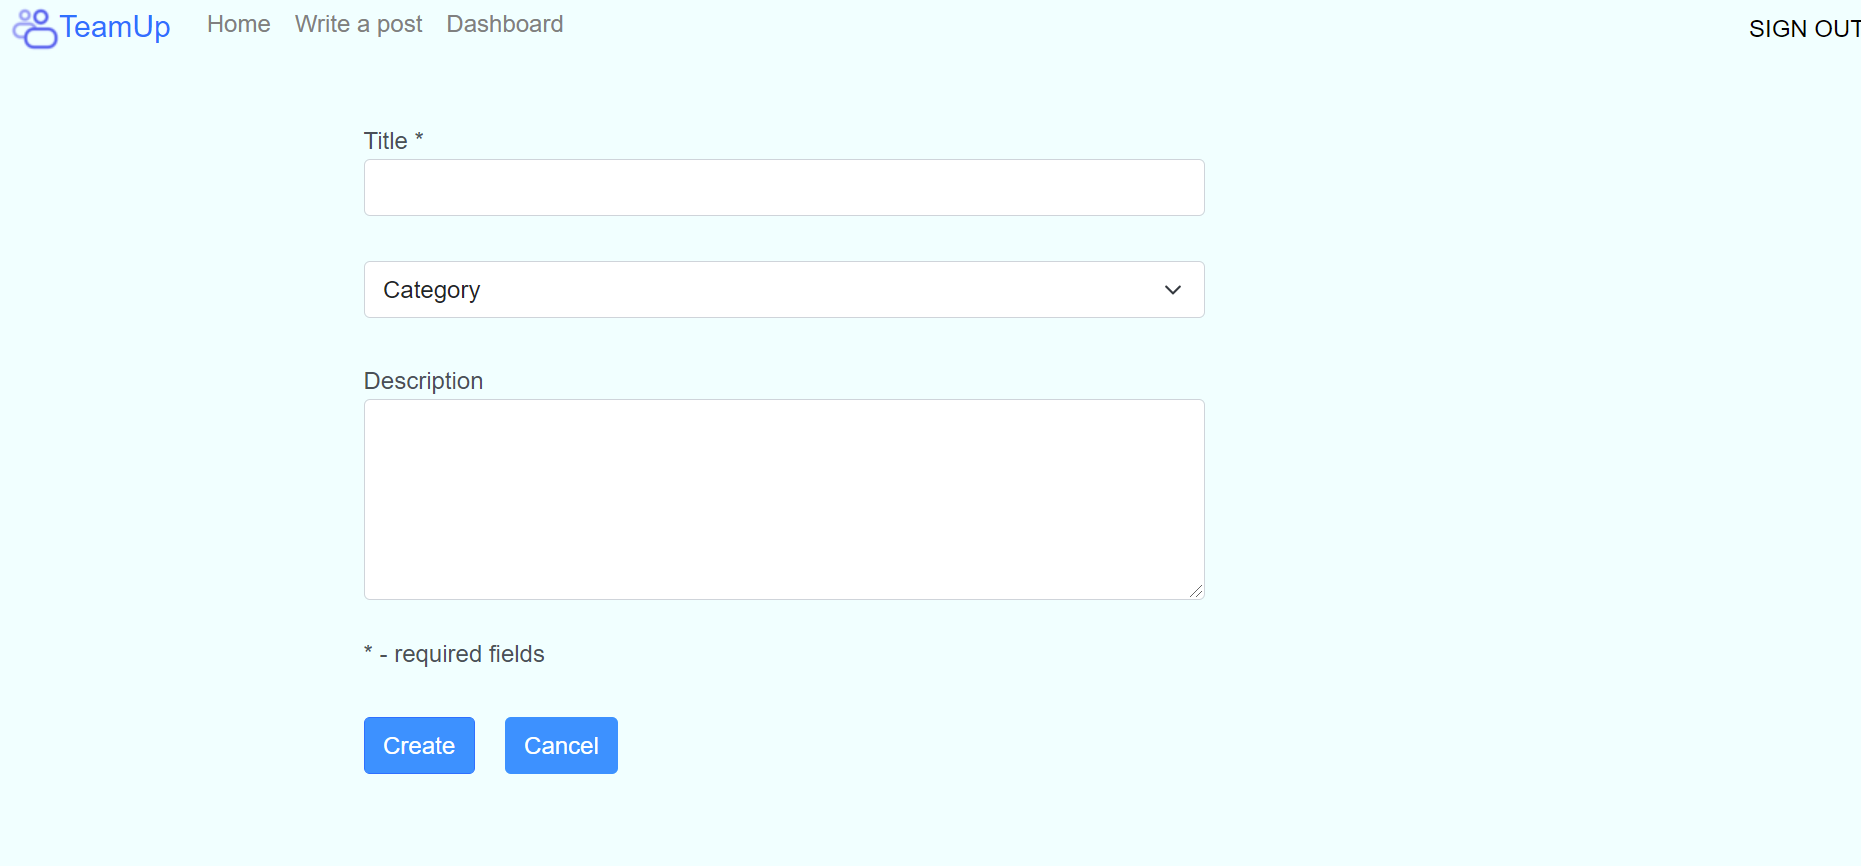
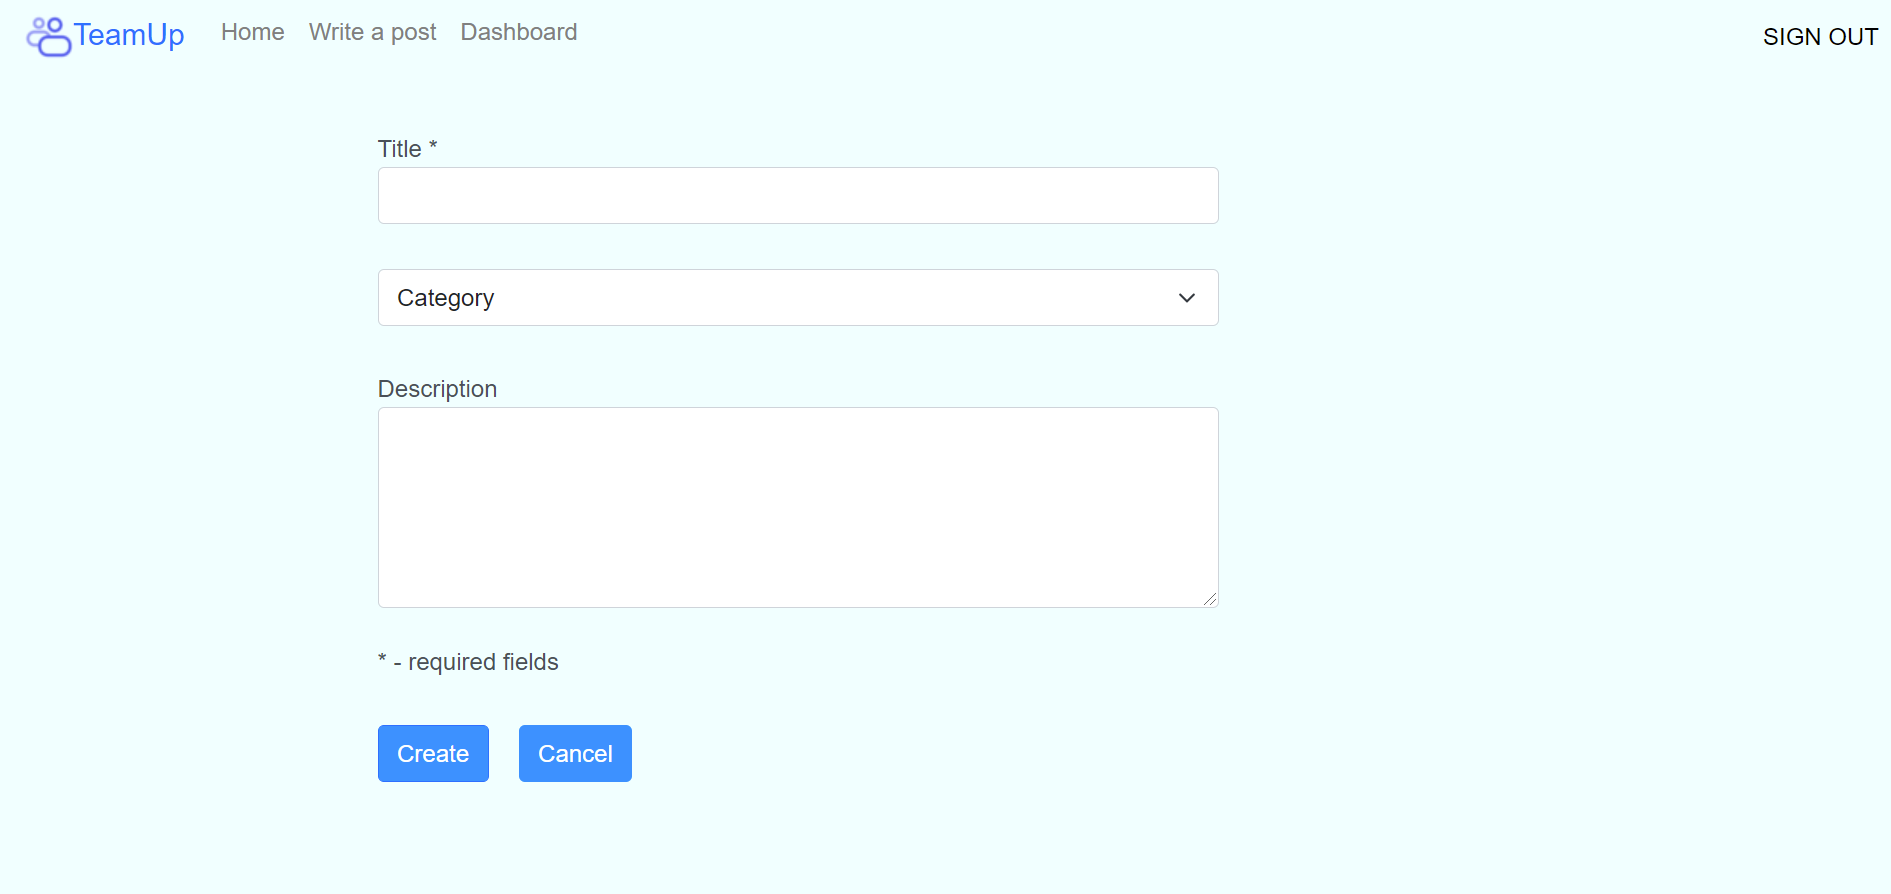
register auto login

diff --git a/front/src/Pages/RegisterPage.js b/front/src/Pages/RegisterPage.js
@@ -1,5 +1,6 @@
 import React, { useState } from "react";
 import { Link } from "react-router-dom";
+import "../styles/auth.css";
 
 let regExp = /^[a-zA-Z0-9.!#$%&'*+/=?^_`{|}~-]+@[a-zA-Z0-9-]+(?:\.[a-zA-Z0-9-]+)*$/;
 
@@ -32,7 +33,7 @@ const RegisterPage = () => {
           return false;
         } else {
           // register
-          await fetch("/register", {
+          const resRaw = await fetch("/register", {
             method: "POST",
             headers: {
               Accept: "application/json",
@@ -42,12 +43,21 @@ const RegisterPage = () => {
               username: username,
               password: password,
             }),
-          }).then((response) => {
-            if (response.redirected) {
-              console.log(response.url);
-              window.location.href = response.url;
-            }
           });
+
+          const res = await resRaw.json();
+          console.log(res);
+          if (res.userid === null) {
+            alert("Please enter a valid e-mail address.");
+          } else {
+            const userInfo = JSON.stringify({
+              username: username,
+              userid: res.userid,
+            });
+            // save user info to local storage
+            localStorage.setItem("user", userInfo);
+            window.location.href = "/";
+          }
         }
       }
     } else {
@@ -58,36 +68,43 @@ const RegisterPage = () => {
 
   return (
     <div className="container">
-      <div className="card-header" style={{backgroundColor: "#f0ffff"}}>
-        <h3 className="mb-0">Sign up</h3>
-      </div>
-
-      <div className="card-body">
-        <label className="form-label">
-          Email address
+      <div className="card" id="card_register">
+        <div className="form-floating my-3">
           <input
-            type="email"
-            className="form-control form-control-lg rounded-0"
+            type="text"
+            className="form-control"
             name="username"
+            placeholder=""
+            id="username"
             onChange={(e) => setUserName(e.target.value)}
           />
-        </label>
-        <br />
-        <label className="form-label">
-          Password
+          <label id="userlabel" htmlFor={username}>
+            Username
+          </label>
+        </div>
+
+        <div className="form-floating my-3">
           <input
             type="password"
+            className="form-control"
             name="password"
-            className="form-control form-control-lg rounded-0"
-            required=""
+            placeholder=""
+            id="password"
             onChange={(e) => setPassword(e.target.value)}
           />
-        </label>
-        <br />
-        <button type="submit" className="btn btn-primary" onClick={register}>
+          <label htmlFor={password}>Password</label>
+        </div>
+
+        <button
+          type="submit"
+          className="btn btn-primary"
+          id="btn_signup"
+          onClick={register}
+        >
           Sign up
         </button>
-        <br /> <br />
+        <br />
+        <br />
         <p className="message">
           Registered Already? <Link to="/login">Sign in</Link>
         </p>

diff --git a/front/src/Pages/LoginPage.js b/front/src/Pages/LoginPage.js
@@ -1,5 +1,6 @@
 import React, { useState } from "react";
 import { Link } from "react-router-dom";
+import "../styles/auth.css";
 
 const LoginPage = () => {
   const [username, setUserName] = useState("");
@@ -36,33 +37,39 @@ const LoginPage = () => {
 
   return (
     <div className="container">
-      <div className="card-header" style={{backgroundColor: "#f0ffff"}}>
-        <h3 className="mb-0">Sign in</h3>
-      </div>
-      <div className="card-body">
-        <label className="form-label">
-          Email address
+      <div className="card" id="card_login">
+        <div className="form-floating my-3">
           <input
-            type="email"
-            className="form-control form-control-lg rounded-0"
+            type="text"
+            className="form-control"
             name="username"
+            placeholder=""
+            id="username"
             onChange={(e) => setUserName(e.target.value)}
           />
-        </label>
-        <br />
-        <label className="form-label">
-          Password
+          <label id="userlabel" htmlFor={username}>
+            Username
+          </label>
+        </div>
+
+        <div className="form-floating my-3">
           <input
             type="password"
+            className="form-control"
             name="password"
-            className="form-control form-control-lg rounded-0"
-            required=""
+            placeholder=""
+            id="password"
             onChange={(e) => setPassword(e.target.value)}
           />
-        </label>
+          <label htmlFor={password}>Password</label>
+        </div>
 
-        <br />
-        <button type="submit" className="btn btn-primary" onClick={login}>
+        <button
+          type="submit"
+          className="btn btn-primary"
+          id="btn_signin"
+          onClick={login}
+        >
           Sign in
         </button>
         <br />

diff --git a/routes/index.js b/routes/index.js
@@ -174,11 +174,18 @@ router.post("/register", async (req, res) => {
     };
 
     const dbRes = await myDB.createUser(userObj);
+
     if (dbRes == null) {
-      res.redirect("/register");
+      console.log("error!!!");
+      res.send({userid: null});
+      //res.redirect("/register");
     } else {
+      console.log("enter here");
       passport.authenticate("local")(req, res, function () {
-        res.redirect("/");
+        console.log("successful register and login");
+        console.log("userid", req.user._id);
+        res.send({ userid: req.user._id });
+        //res.redirect("/login");
       });
     }
   } catch (e) {

diff --git a/front/src/styles/auth.css b/front/src/styles/auth.css
@@ -1,0 +1,27 @@
+#card_login, #card_register {
+  display: flex;
+  justify-content: center;
+  align-items: center;
+  margin-top: 50px;
+  margin-left: auto;
+  margin-right: auto;
+  width: 500px;
+}
+
+#btn_signin, #btn_signup {
+  width: 300px;
+  border-radius: 4px;
+}
+
+#username,
+#password {
+  width: 300px;
+  border: none;
+  border: solid 1px #ccc;
+  border-radius: 4px;
+}
+
+
+
+
+

diff --git a/front/src/styles/dashboard.css b/front/src/styles/dashboard.css
@@ -1,14 +1,8 @@
-body {
-  margin: 0;
-  line-height: 1.5;
-  color: #495057;
-  text-align: left;
-}
-
 .containter {
   margin-top: 20px;
   position: relative;
-  background-color: #f0ffff;
+  background-color: #ffffff;
+  text-align: left;
 }
 
 .countsContainer {

diff --git a/front/src/styles/post.css b/front/src/styles/post.css
@@ -1,7 +1,7 @@
 .form-group {
   margin-top: 30px;
   margin-left: 175px;
-  background-color: #f0ffff;
+  background-color: #ffffff;
 }
 
 .require {
@@ -17,3 +17,8 @@
   float: left;
   color: #ffffff;
 }
+
+#createPost, #cancel {
+  width: 100px;
+}
+

diff --git a/front/src/index.css b/front/src/index.css
@@ -1,6 +1,6 @@
 body {
   font-family: sans-serif;
-  background-color: #f0ffff;
+  background-color: #ffffff;
   margin: 0;
   line-height: 1.5;
   color: #495057;

diff --git a/front/src/styles/home.css b/front/src/styles/home.css
@@ -6,7 +6,7 @@ body {
 }
 
 #container {
-  background-color: #f0ffff;
+  background-color: #ffffff;
   padding-left: 160px;
   margin-top: 25px;
 }

diff --git a/README.md b/README.md
@@ -1,16 +1,21 @@
 <p align="center">
+<<<<<<< Updated upstream
   <a href="">
     <img src="https://i.imgur.com/dZUT2A5.png" alt="TeamUp logo" width="150" height="150">
+=======
+  <a href="https://enigmatic-cliffs-18531.herokuapp.com/">
+    <img src="https://i.imgur.com/dZUT2A5.png" alt="TeamUp logo" width="200" height="200">
+>>>>>>> Stashed changes
   </a>
 </p>
 
 # TeamUp App (app link)
 Author: [Yongliang (Sean) Tan](https://seantanty.github.io/CS-5610-project1/index.html) & [Xinyi Ge](https://xinyijackiege.github.io/)\
 Class Link: [Web Development](https://johnguerra.co/classes/webDevelopment_spring_2021/)
-Deployed to Heroku: [Link]()
+Deployed to Heroku: [Link](https://enigmatic-cliffs-18531.herokuapp.com/)
 ***
-A teamup forum app serving students to convenientyly form teams to study, play and enjoy lives together on and off campus.
-<a href="demolink">Video demo</a>
+A teamup forum app serving students to conveniently  form teams to study, play and enjoy lives together on and off campus.
+<a href="https://www.youtube.com/watch?v=b1qkEst-7Pw&ab_channel=YongliangTan">Video demo</a>
 
 ## Table of Contents
 1. [Project Objective](#project-objective)
@@ -27,7 +32,8 @@ And the app is deployed by Heroku.
 * The app applies user authentication.
 * User can create a post to find team members.
 * User can search/filter other’s posts and express interest/leave comments to join a team.
-* Post owner can check the posts he/she created, select team member and form a team.
+* Post owner can check the posts he/she created, select team members and form a team.
+* User can access to dashboard to check post status.
 
 ### Screenshots
 *** 
@@ -43,6 +49,8 @@ And the app is deployed by Heroku.
 * Node.js: version v14.16.0
 * Express: version 4.17.1
 * React: version 17.0.2
+* Passport: version 0.4.1
+* BCrypt: v5.0.1
 * Mongodb: version 3.6.4
 
 ### Setup for Development
